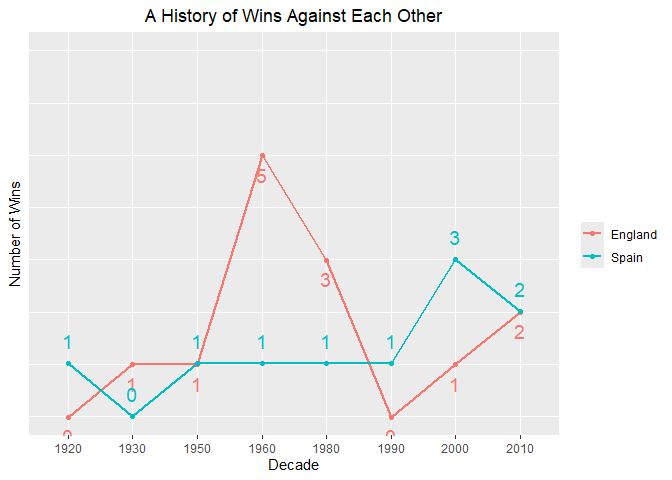
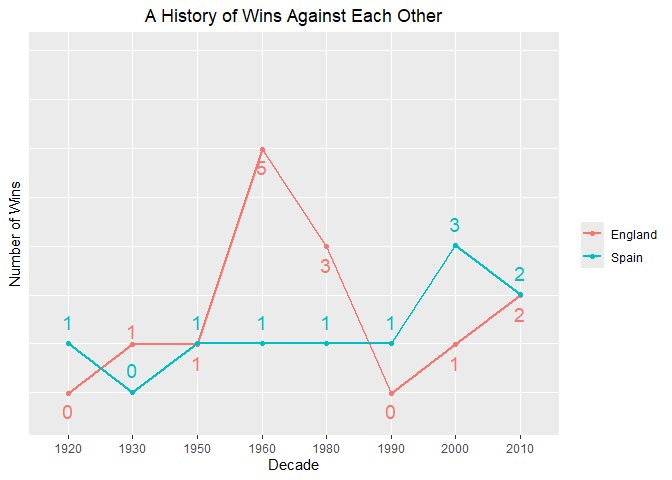
upload final report

diff --git a/Spain_vs_England.md b/Spain_vs_England.md
@@ -185,16 +185,18 @@ plot_data %>%
              color = winner, group = winner)) +
   geom_line(position = , linewidth = 1) +
   geom_point() +
-  geom_text(aes(label = n,
-                # Offset text to avoid overlapping
+  geom_text_repel(aes(label = n,
+                # Offset text team 1 above and team 2 below line
                 vjust = if_else(winner == my_teams[[1, 2]], -1, 1.75)),
             size = 5,
+            # To suppress the line joining label to point
+            segment.color = NA,
             show.legend = FALSE) +
   labs(x = "Decade",
        y = "Number of Wins",
        color = "",
        title = "A History of Wins Against Each Other") +
-  scale_y_continuous(limits = c(-0.01, max(plot_data$n, na.rm = T) + 2)) +
+  scale_y_continuous(limits = c(-0.5, max(plot_data$n, na.rm = T) + 2)) +
   theme(plot.title = element_text(hjust = 0.5),
         plot.subtitle = element_text(hjust = 0.5),
         axis.text.y = element_blank(),
